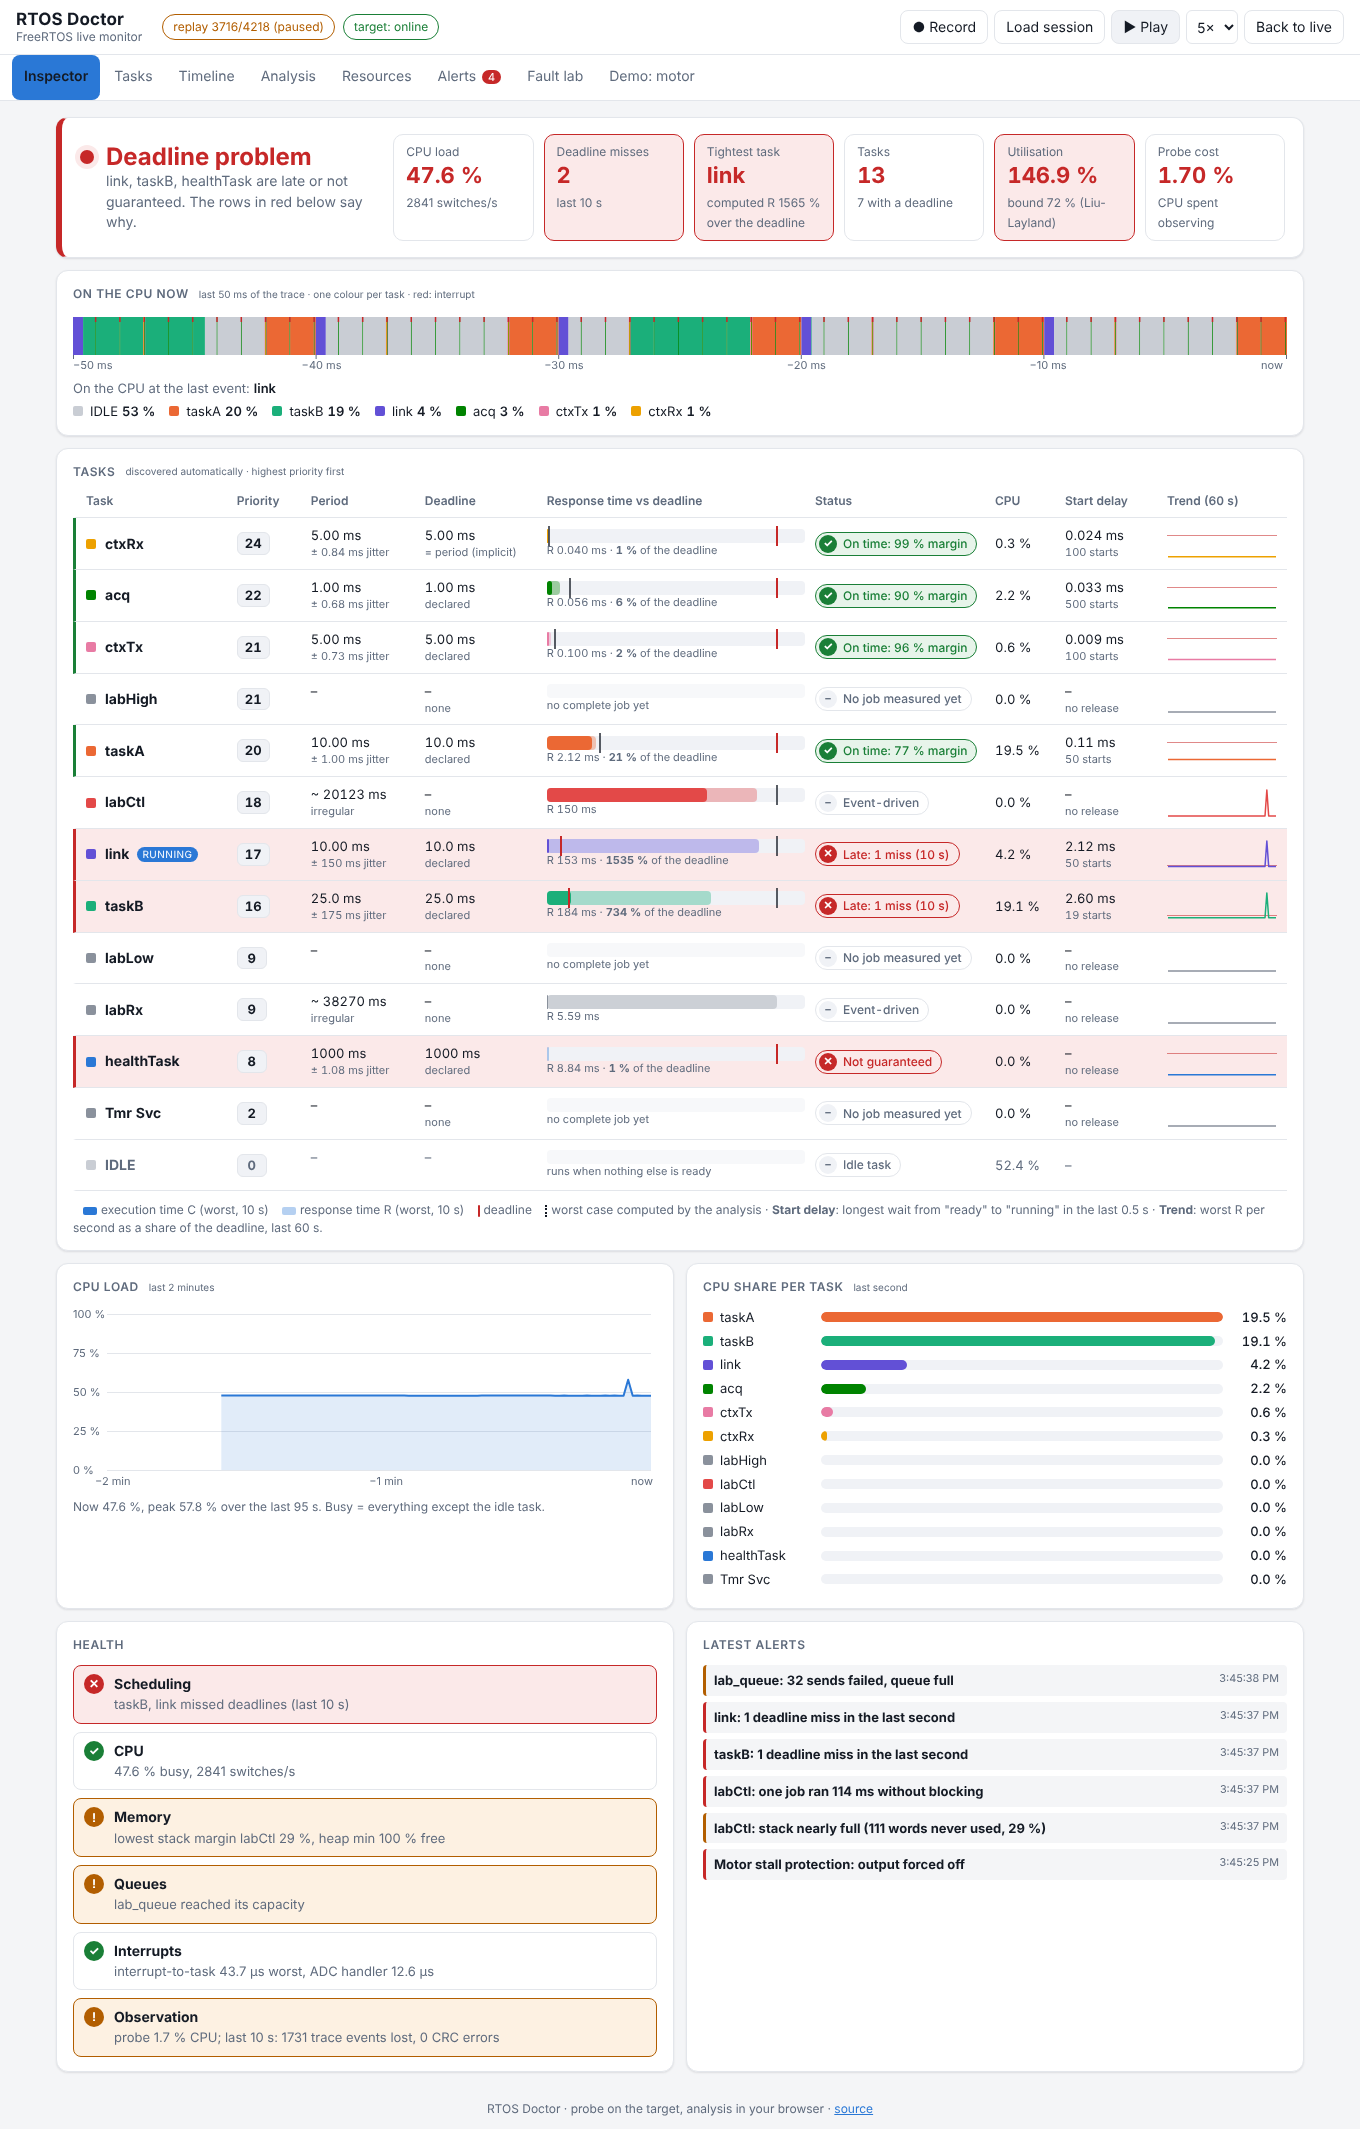
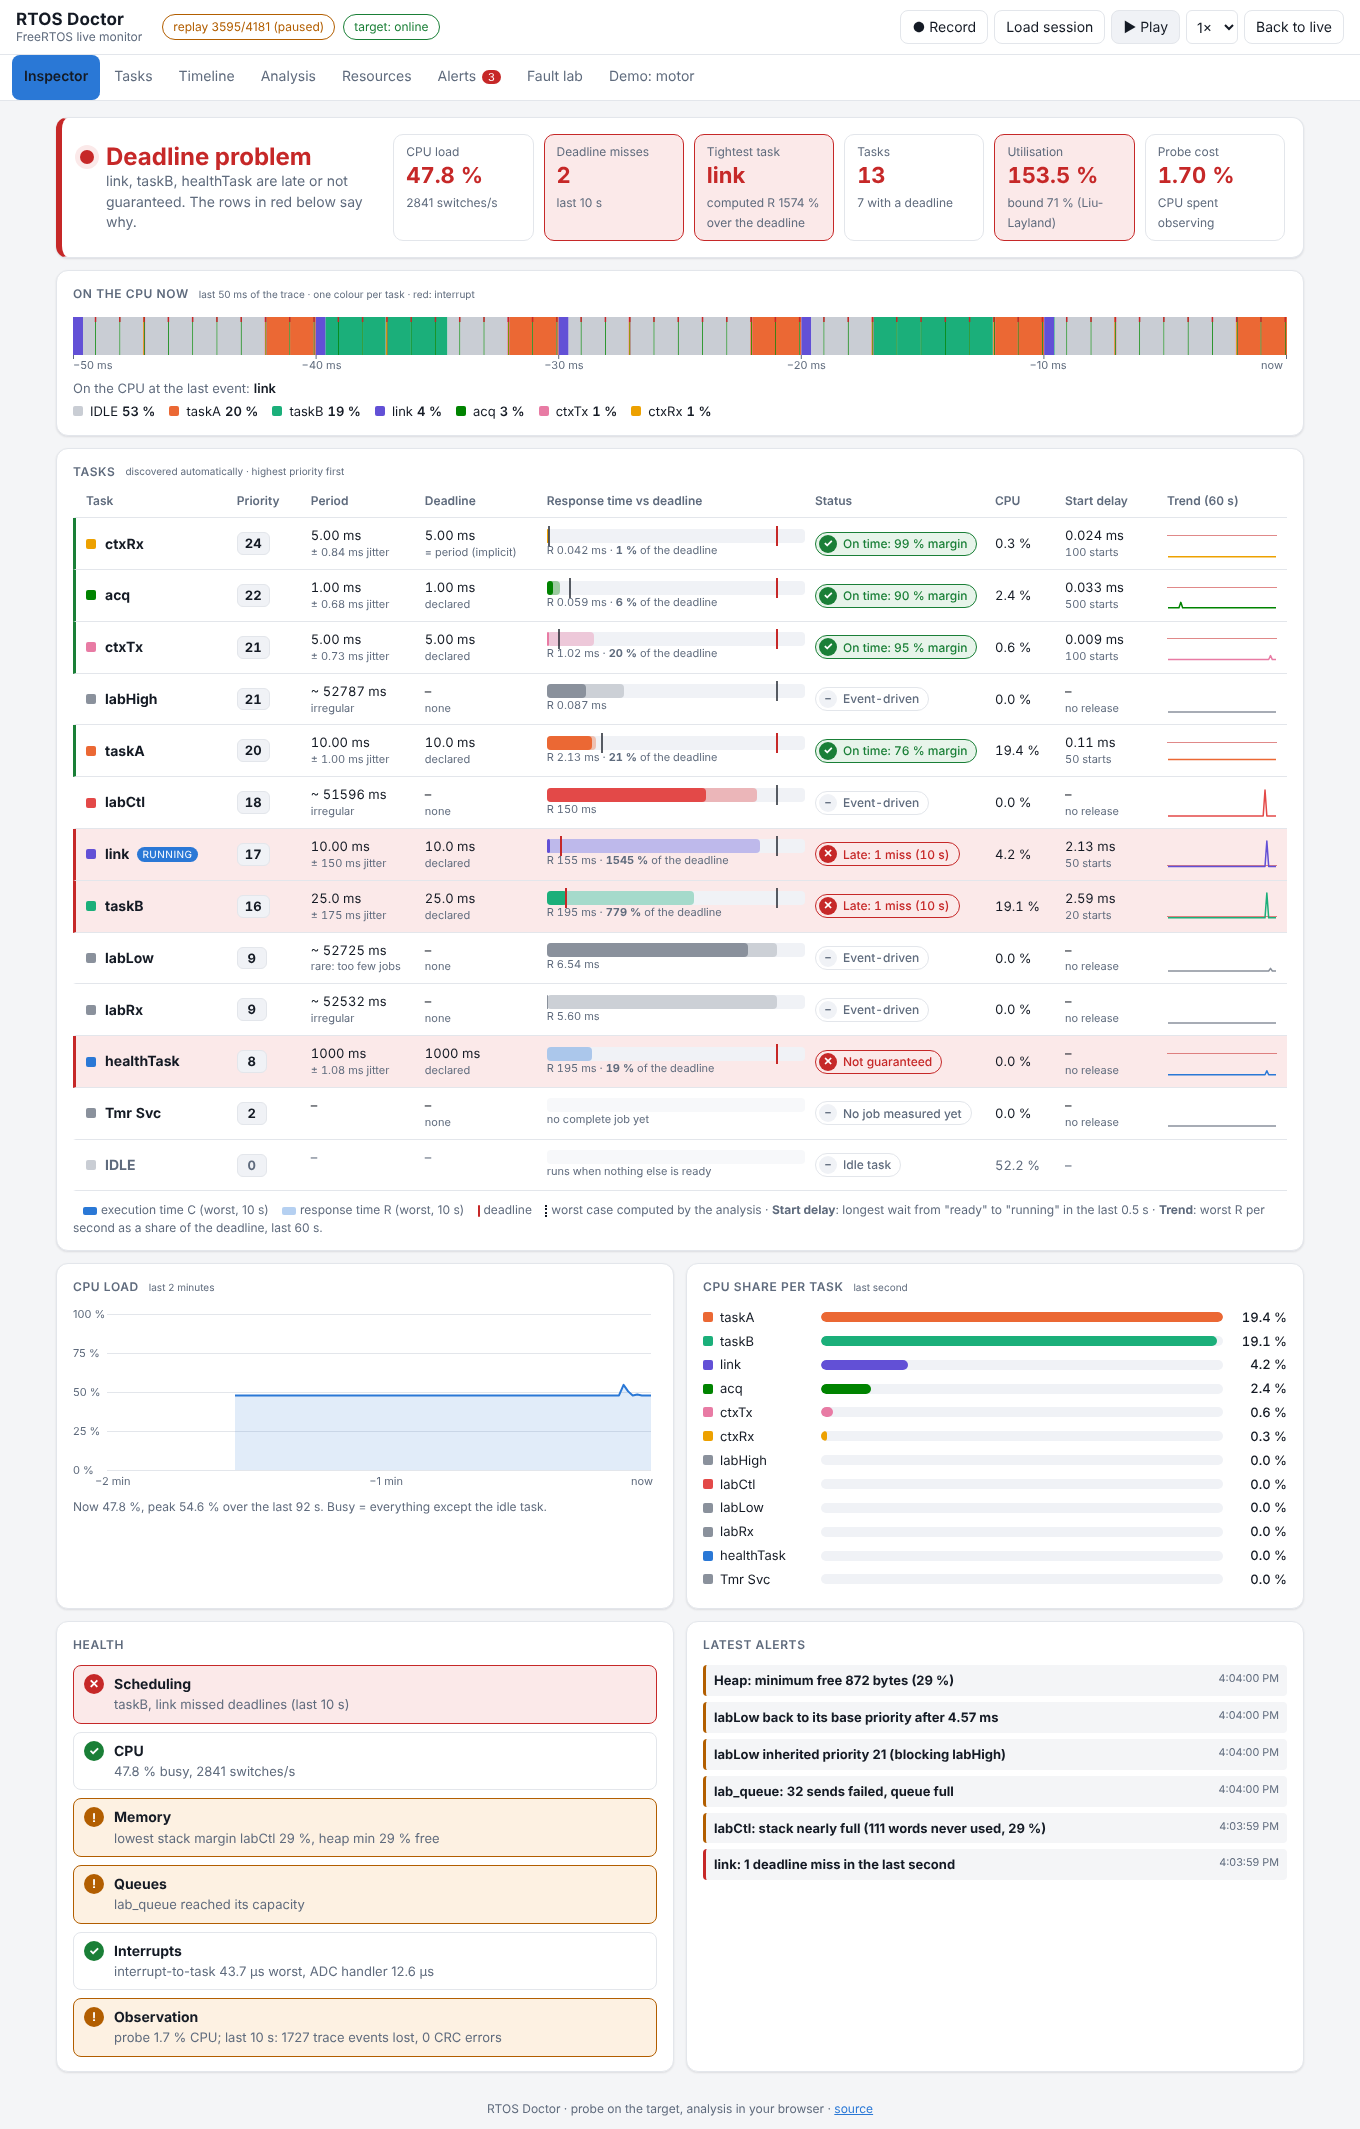
README: screenshots from the bench session with the motor running, all five faults detected with their delays

diff --git a/README.md b/README.md
@@ -8,9 +8,8 @@ It is built and proven on a hardware-in-the-loop motor-control bench (STM32 + tw
 
 ![The Inspector view: verdict, what runs on the CPU, and every task with its priority, period, deadline and response time](docs/images/inspector.png)
 
-<sub>Real session recorded on the bench (2026-10-11): 13 tasks discovered, 7 with a deadline, all on time, CPU 47.6 % busy.
-The "Motor stall protection" alert is real too: the motor model was not answering during this run, and the stall protection
-cut the motor as designed.</sub>
+<sub>Real session recorded on the bench (2026-10-11), motor running in TEST mode: 13 tasks discovered, 7 with a deadline,
+all on time, CPU 47.8 % busy.</sub>
 
 ## Contents
 
@@ -61,7 +60,7 @@ Each row of the task board:
 
 When something goes wrong, the board says which task and by how much. Below, on the bench, the fault lab has
 injected a CPU hog (a priority-18 task busy-waits 150 ms without blocking): link and taskB, below it, are late,
-and the banner names them. The analysis now uses the merged 184 ms job of taskB, so utilisation reads 147 % until
+and the banner names them. The analysis now uses the merged 195 ms job of taskB, so utilisation reads 153 % until
 that job leaves the 10 s window: the numbers say exactly what happened, they are not smoothed.
 
 ![Inspector after an injected CPU hog: link and taskB are late](docs/images/inspector-fault.png)
@@ -169,6 +168,8 @@ flowchart LR
   quadrature encoder signals the STM32 reads back.
 - The hardware does the input and output (PWM, encoder counting, ADC sampling, UART by DMA): the CPU only decides.
 
+![Motor view on the bench: TEST mode, setpoint square wave 0 / 1500 rpm, speed and duty cycle](docs/images/motor.png)
+
 **The tasks of the bench firmware** (as the Inspector shows them):
 
 | Task | Priority | Period | Deadline | What it does |
@@ -204,10 +205,10 @@ Pins and board notes: [docs/HARDWARE.md](docs/HARDWARE.md).
 | First run: ctxTx (5 ms) and link (10 ms) below taskB (25 ms) in priority | deadlines missed (analysis) | 7 561 and 223 misses |
 | Same tasks after raising their priorities from the analysis (ctxTx 12 → 21, link 10 → 17) | R below D | 0 misses in 40 s, every measured R below the computed R |
 | Link over UART at 2 Mbaud | – | 0 CRC errors, 0 lost frames |
-| Fault lab, 5 injected faults | one detection each | 5 of 5 detected, 0.1 to 1.0 s after injection |
-| Fault lab, run of 2026-10-11 (target clock) | – | CPU hog 0.15 s · stack pressure 0.72 s · queue flood 0.42 s |
+| Fault lab, run of 2026-10-11 (detection delay, target clock) | one detection each | 5 of 5: CPU hog 0.15 s · stack 0.32 s · queue flood 0.58 s · priority inversion 0.002 s (holder raised to 21 for 4.6 ms) · heap 0.30 s |
 | Cost of observing (probe hooks / kernel switching) | – | **1.7 %** / 1.3 % of the CPU, at 2 841 switches/s and 7 562 trace events/s |
-| CPU load, 13 tasks, declared deadlines | utilisation 58.1 % (analysis, worst C of each task) | 47.6 % busy on average, 0 deadline misses until the injected fault |
+| CPU load, 13 tasks, declared deadlines | utilisation 58.1 % (analysis, worst C of each task) | 47.8 % busy on average, 0 deadline misses until the injected fault |
+| TEST mode, steady state at 1500 rpm | duty 50 % (K = 3000 rpm at 100 %) | 1498 rpm at 50.1 % duty |
 
 Two logic-analyser captures from the bench: task A and task B on their timing pins (B is preempted by A: 7.01 ms
 instead of 5 ms), and the motor PWM at 68 % duty, 20 kHz.
